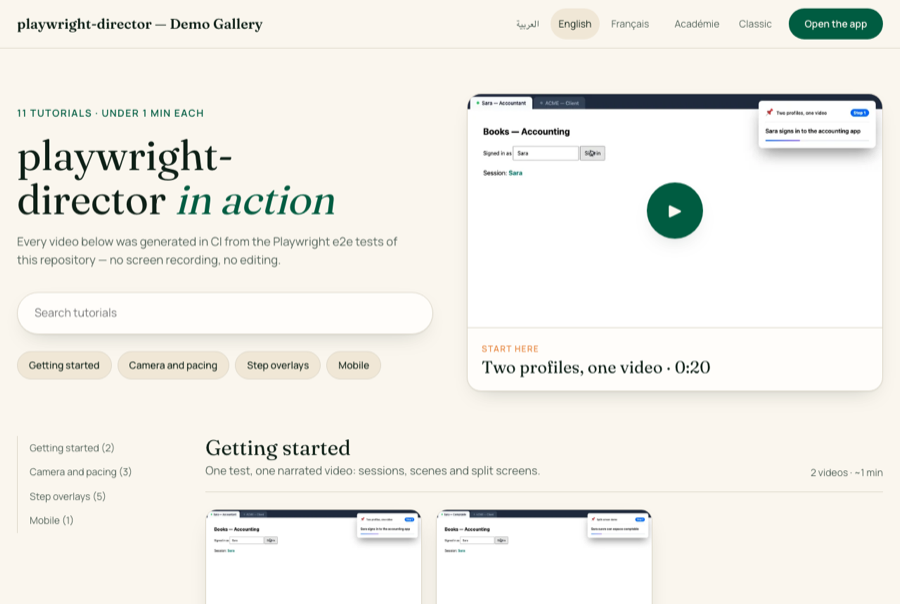
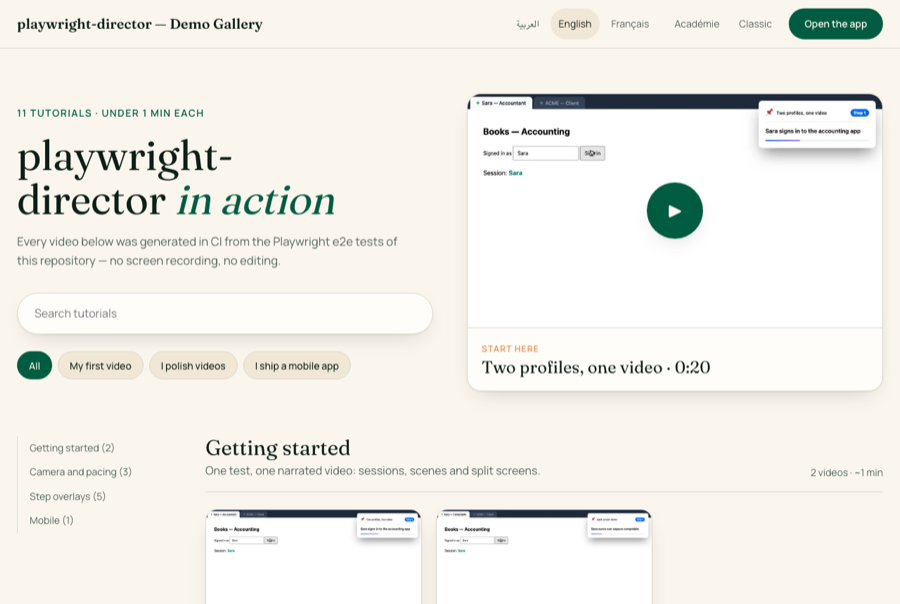
0.6.1: Académie role chips (tutorials.roles) filter sections; drop section chips

diff --git a/e2e/site.spec.ts b/e2e/site.spec.ts
@@ -52,6 +52,12 @@ test.beforeAll(async () => {
 	};
 	for (const [lang, t] of Object.entries(texts)) {
 		if (lang !== 'fr') copyFileSync(join(videos, 'look.fr.webm'), join(videos, `look.${lang}.webm`));
+		// A second tutorial in another section, for the role chips
+		copyFileSync(join(videos, 'look.fr.webm'), join(videos, `pay.${lang}.webm`));
+		writeFileSync(
+			join(timelines, `pay.${lang}_timeline.json`),
+			JSON.stringify({ testName: `pay.${lang}`, testTitle: 'pay', title: 'Paie', feature: 'payroll', lang, totalDurationMs: 12000, steps: [] })
+		);
 		writeFileSync(
 			join(timelines, `look.${lang}_timeline.json`),
 			JSON.stringify({
@@ -69,7 +75,7 @@ test.beforeAll(async () => {
 		const output = join(root, theme);
 		// .mjs: Playwright's loader turns a .js config outside a "type": "module" package into CommonJS
 		const configPath = join(root, `${theme}.config.mjs`);
-		writeFileSync(configPath, `export default ${JSON.stringify({ title: 'Aide', theme, input: root, timelines, videos, output, lang: 'fr,ar', baseUrl: '/' })};`);
+		writeFileSync(configPath, `export default ${JSON.stringify({ title: 'Aide', theme, input: root, timelines, videos, output, lang: 'fr,ar', baseUrl: '/', tutorials: { roles: { payroll: { label: { fr: 'Je gère la paie', ar: 'أدير الأجور' }, sections: ['payroll'] } } } })};`);
 		await buildSite(configPath);
 		origins[theme] = await serve(output);
 	}
@@ -106,6 +112,8 @@ for (const theme of THEMES) {
 
 		for (const [lang, path] of [['fr', ''], ['ar', 'ar/']]) {
 			test(`axe: no violations on the ${lang} home and video page`, async ({ page }) => {
+				// Off-screen cards sit at 25% opacity until the scroll-linked rise plays; reduced motion turns it off
+				await page.emulateMedia({ reducedMotion: 'reduce' });
 				for (const p of [path, `look.${lang}/`]) {
 					await page.goto(origins[theme] + p);
 					expect(await page.locator('html').getAttribute('dir')).toBe(lang === 'ar' ? 'rtl' : 'ltr');
@@ -126,4 +134,16 @@ test('academy search filters the cards and shows the empty state', async ({ page
 	await expect(page.locator('.ac-card:visible')).toHaveCount(0);
 	await expect(page.locator('.ac-empty')).toBeVisible();
 	await expect(page.locator('.ac-empty')).toContainText('zzz');
+});
+
+test('academy role chips show only their sections, "All" resets', async ({ page }) => {
+	await page.goto(origins.academy);
+	const chip = page.getByRole('button', { name: 'Je gère la paie' });
+	await chip.click();
+	await expect(chip).toHaveAttribute('aria-pressed', 'true');
+	await expect(page.locator('.ac-card:visible')).toHaveCount(1);
+	await expect(page.locator('#settings')).toBeHidden();
+	await expect(page.locator('.ac-toc li:visible')).toHaveCount(1);
+	await page.getByRole('button', { name: 'Tous' }).click();
+	await expect(page.locator('.ac-card:visible')).toHaveCount(2);
 });

diff --git a/src/site/strings.ts b/src/site/strings.ts
@@ -37,6 +37,8 @@ export interface UiStrings {
 	/** Plural form for n = 1 — the site's t() picks `<key>_<Intl.PluralRules category>` when present */
 	sectionStats_one: string;
 	sections: string;
+	/** Label of the role chips (Académie hero) */
+	roles: string;
 	nextSection: string;
 	ctaTitle: string;
 	ctaText: string;
@@ -82,6 +84,7 @@ export const STRINGS: Record<string, UiStrings> = {
 		sectionStats: '{n} videos · ~{m} min',
 		sectionStats_one: '1 video · ~{m} min',
 		sections: 'Sections',
+		roles: 'Your profile',
 		nextSection: 'Next section',
 		ctaTitle: 'Your turn',
 		ctaText: 'Open the app and repeat these steps in a few minutes.',
@@ -125,6 +128,7 @@ export const STRINGS: Record<string, UiStrings> = {
 		sectionStats: '{n} vidéos · ~{m} min',
 		sectionStats_one: '1 vidéo · ~{m} min',
 		sections: 'Sections',
+		roles: 'Votre profil',
 		nextSection: 'Section suivante',
 		ctaTitle: 'À vous de jouer',
 		ctaText: 'Ouvrez l’application et refaites ces étapes en quelques minutes.',
@@ -168,6 +172,7 @@ export const STRINGS: Record<string, UiStrings> = {
 		sectionStats: '{n} فيديو · ~{m} د',
 		sectionStats_one: 'فيديو واحد · ~{m} د',
 		sections: 'الأقسام',
+		roles: 'ملفك',
 		nextSection: 'القسم التالي',
 		ctaTitle: 'دورك الآن',
 		ctaText: 'افتح التطبيق وكرر هذه الخطوات في بضع دقائق.',

diff --git a/dist/site/types.d.ts b/dist/site/types.d.ts
@@ -12,6 +12,12 @@ export interface SiteCategory {
     /** Tutorial slugs of this section, in display order — wins over the timeline `feature` */
     items?: string[];
 }
+export interface SiteRole {
+    /** Chip text, e.g. "Je suis comptable" */
+    label: Localized;
+    /** Section ids shown when the chip is on */
+    sections: string[];
+}
 export interface SiteConfig {
     title: string;
     logo?: string;
@@ -55,6 +61,9 @@ export interface SiteConfig {
     tutorials?: {
         /** Sections in display order */
         categories?: Record<string, SiteCategory>;
+        /** Académie hero chips, one per reader profile: a click shows only its sections.
+         *  `{ accountant: { label: { fr: 'Je suis comptable' }, sections: ['accounting', 'lecteur'] } }`. No roles = no chips. */
+        roles?: Record<string, SiteRole>;
         ui?: {
             heroTitle?: Localized;
             heroSubtitle?: Localized;
@@ -135,6 +144,8 @@ export interface VideoManifest {
         label: Localized;
         blurb?: Localized;
     }>;
+    /** Reader profiles (Académie chips), each a list of section ids */
+    roles?: Record<string, SiteRole>;
     /** Slug of the "start here" tutorial */
     featured?: string;
     videos: VideoManifestEntry[];

diff --git a/templates/site/src/lib/filter.ts b/templates/site/src/lib/filter.ts
@@ -1,6 +1,6 @@
-// Home page filters (variant buttons, search box) combined on the same cards. Client-side module:
+// Home page filters (variant buttons, search box, role chips) combined on the same cards. Client-side module:
 // every script importing it shares this state, so one filter never undoes the other.
-const state = { variant: 'all', query: '' };
+const state = { variant: 'all', query: '', sections: [] as string[] };
 
 /** Lowercase, accents stripped: "Créer" matches "creer" */
 export const normalize = (s: string) => s.normalize('NFD').replace(/\p{Diacritic}/gu, '').toLowerCase().trim();
@@ -13,7 +13,8 @@ export function setFilter(change: Partial<typeof state>) {
 		const variantOk = state.variant === 'all' || (card.dataset.variant ?? '') === state.variant;
 		// data-search is normalized at build time
 		const queryOk = !query || (card.dataset.search ?? normalize(card.textContent ?? '')).includes(query);
-		card.hidden = !(variantOk && queryOk);
+		const sectionOk = !state.sections.length || state.sections.includes(card.closest('.category')?.id ?? '');
+		card.hidden = !(variantOk && queryOk && sectionOk);
 	}
 	// Hide sections left with no visible card
 	document.querySelectorAll<HTMLElement>('.category').forEach((section) => {

diff --git a/src/site/types.ts b/src/site/types.ts
@@ -16,6 +16,13 @@ export interface SiteCategory {
 	items?: string[];
 }
 
+export interface SiteRole {
+	/** Chip text, e.g. "Je suis comptable" */
+	label: Localized;
+	/** Section ids shown when the chip is on */
+	sections: string[];
+}
+
 export interface SiteConfig {
 	title: string;
 	logo?: string;
@@ -59,6 +66,9 @@ export interface SiteConfig {
 	tutorials?: {
 		/** Sections in display order */
 		categories?: Record<string, SiteCategory>;
+		/** Académie hero chips, one per reader profile: a click shows only its sections.
+		 *  `{ accountant: { label: { fr: 'Je suis comptable' }, sections: ['accounting', 'lecteur'] } }`. No roles = no chips. */
+		roles?: Record<string, SiteRole>;
 		ui?: { heroTitle?: Localized; heroSubtitle?: Localized };
 		/** Slug of the "start here" tutorial (Académie hero) */
 		featured?: string;
@@ -135,6 +145,8 @@ export interface VideoManifestEntry {
 export interface VideoManifest {
 	/** Sections in display order */
 	categories: Record<string, { icon?: string; label: Localized; blurb?: Localized }>;
+	/** Reader profiles (Académie chips), each a list of section ids */
+	roles?: Record<string, SiteRole>;
 	/** Slug of the "start here" tutorial */
 	featured?: string;
 	videos: VideoManifestEntry[];

diff --git a/dist/site/generate-manifest.js b/dist/site/generate-manifest.js
@@ -102,6 +102,12 @@ export function generateManifest(tutorials, config) {
         const cat = categoryOf(t);
         categories[cat] ??= { icon: DEFAULT_CATEGORY_ICONS[cat] || '📹', label: cat.charAt(0).toUpperCase() + cat.slice(1).replace(/-/g, ' ') };
     }
+    const roles = config.tutorials?.roles;
+    for (const [id, role] of Object.entries(roles ?? {})) {
+        const unknown = role.sections.find((s) => !(s in categories));
+        if (unknown)
+            throw new Error(`Unknown section "${unknown}" in role "${id}". Sections: ${Object.keys(categories).join(', ')}`);
+    }
     // Recording dates per slug (all languages and variants): first = uploadDate, last = dateModified.
     const dates = new Map();
     for (const t of tutorials) {
@@ -160,6 +166,7 @@ export function generateManifest(tutorials, config) {
     videos.sort((a, b) => sectionRank.indexOf(a.category) - sectionRank.indexOf(b.category) || rank(a) - rank(b));
     return {
         categories,
+        ...(roles ? { roles } : {}),
         ...(config.tutorials?.featured ? { featured: config.tutorials.featured } : {}),
         videos,
         ui: {

diff --git a/dist/site/strings.js b/dist/site/strings.js
@@ -34,6 +34,7 @@ export const STRINGS = {
         sectionStats: '{n} videos · ~{m} min',
         sectionStats_one: '1 video · ~{m} min',
         sections: 'Sections',
+        roles: 'Your profile',
         nextSection: 'Next section',
         ctaTitle: 'Your turn',
         ctaText: 'Open the app and repeat these steps in a few minutes.',
@@ -77,6 +78,7 @@ export const STRINGS = {
         sectionStats: '{n} vidéos · ~{m} min',
         sectionStats_one: '1 vidéo · ~{m} min',
         sections: 'Sections',
+        roles: 'Votre profil',
         nextSection: 'Section suivante',
         ctaTitle: 'À vous de jouer',
         ctaText: 'Ouvrez l’application et refaites ces étapes en quelques minutes.',
@@ -120,6 +122,7 @@ export const STRINGS = {
         sectionStats: '{n} فيديو · ~{m} د',
         sectionStats_one: 'فيديو واحد · ~{m} د',
         sections: 'الأقسام',
+        roles: 'ملفك',
         nextSection: 'القسم التالي',
         ctaTitle: 'دورك الآن',
         ctaText: 'افتح التطبيق وكرر هذه الخطوات في بضع دقائق.',

diff --git a/src/site/generate-manifest.ts b/src/site/generate-manifest.ts
@@ -106,6 +106,12 @@ export function generateManifest(tutorials: ScannedTutorial[], config: SiteConfi
 		categories[cat] ??= { icon: DEFAULT_CATEGORY_ICONS[cat] || '📹', label: cat.charAt(0).toUpperCase() + cat.slice(1).replace(/-/g, ' ') };
 	}
 
+	const roles = config.tutorials?.roles;
+	for (const [id, role] of Object.entries(roles ?? {})) {
+		const unknown = role.sections.find((s) => !(s in categories));
+		if (unknown) throw new Error(`Unknown section "${unknown}" in role "${id}". Sections: ${Object.keys(categories).join(', ')}`);
+	}
+
 	// Recording dates per slug (all languages and variants): first = uploadDate, last = dateModified.
 	const dates = new Map<string, string[]>();
 	for (const t of tutorials) {
@@ -167,6 +173,7 @@ export function generateManifest(tutorials: ScannedTutorial[], config: SiteConfi
 
 	return {
 		categories,
+		...(roles ? { roles } : {}),
 		...(config.tutorials?.featured ? { featured: config.tutorials.featured } : {}),
 		videos,
 		ui: {

diff --git a/tests/site-manifest-config.test.ts b/tests/site-manifest-config.test.ts
@@ -68,6 +68,16 @@ describe('generateManifest sections', () => {
 		expect(m.featured).toBe('a');
 	});
 
+	it('carries the roles and rejects an unknown section', () => {
+		const roles = { accountant: { label: { fr: 'Je suis comptable' }, sections: ['billing'] } };
+		const m = generateManifest([tutorial('a', { feature: 'billing' })], { ...config, tutorials: { roles } });
+		expect(m.roles).toEqual(roles);
+		expect(generateManifest([tutorial('a')], config).roles).toBeUndefined();
+		expect(() =>
+			generateManifest([tutorial('a', { feature: 'billing' })], { ...config, tutorials: { roles: { x: { label: 'X', sections: ['nope'] } } } })
+		).toThrow(/Unknown section "nope" in role "x".*billing/);
+	});
+
 	it('dates a slug from its oldest and newest recordings, across languages', () => {
 		const m = generateManifest(
 			[tutorial('a', {}, '2026-09-05T08:00:00Z'), tutorial('a.en', { lang: 'en' }, '2026-08-01T08:00:00Z')],

diff --git a/templates/themes/academy/theme.css b/templates/themes/academy/theme.css
@@ -169,12 +169,24 @@ a {
 	background: var(--ac-secondary);
 	font-size: 0.875rem;
 	font-weight: 500;
+	color: inherit;
+	font-family: inherit;
 	text-decoration: none;
 	transition: border-color 0.3s var(--ac-ease);
 }
 
+button.ac-chip {
+	cursor: pointer;
+}
+
 .ac-chip:hover {
 	border-color: var(--pd-primary);
+}
+
+.ac-chip[aria-pressed='true'] {
+	border-color: var(--pd-primary);
+	background: var(--pd-primary);
+	color: var(--pd-on-primary);
 }
 
 .ac-badge {

diff --git a/tutorial-site.config.js b/tutorial-site.config.js
@@ -51,6 +51,12 @@ export default {
 				items: ['mobile-split-demo']
 			}
 		},
+		// Hero chips: a click shows only the role's sections
+		roles: {
+			first: { label: 'My first video', sections: ['start', 'overlays'] },
+			polish: { label: 'I polish videos', sections: ['camera', 'overlays'] },
+			mobile: { label: 'I ship a mobile app', sections: ['mobile'] }
+		},
 		ui: {
 			heroTitle: 'playwright-director *in action*',
 			heroSubtitle:

diff --git a/dist/site/strings.d.ts b/dist/site/strings.d.ts
@@ -37,6 +37,8 @@ export interface UiStrings {
     /** Plural form for n = 1 — the site's t() picks `<key>_<Intl.PluralRules category>` when present */
     sectionStats_one: string;
     sections: string;
+    /** Label of the role chips (Académie hero) */
+    roles: string;
     nextSection: string;
     ctaTitle: string;
     ctaText: string;
